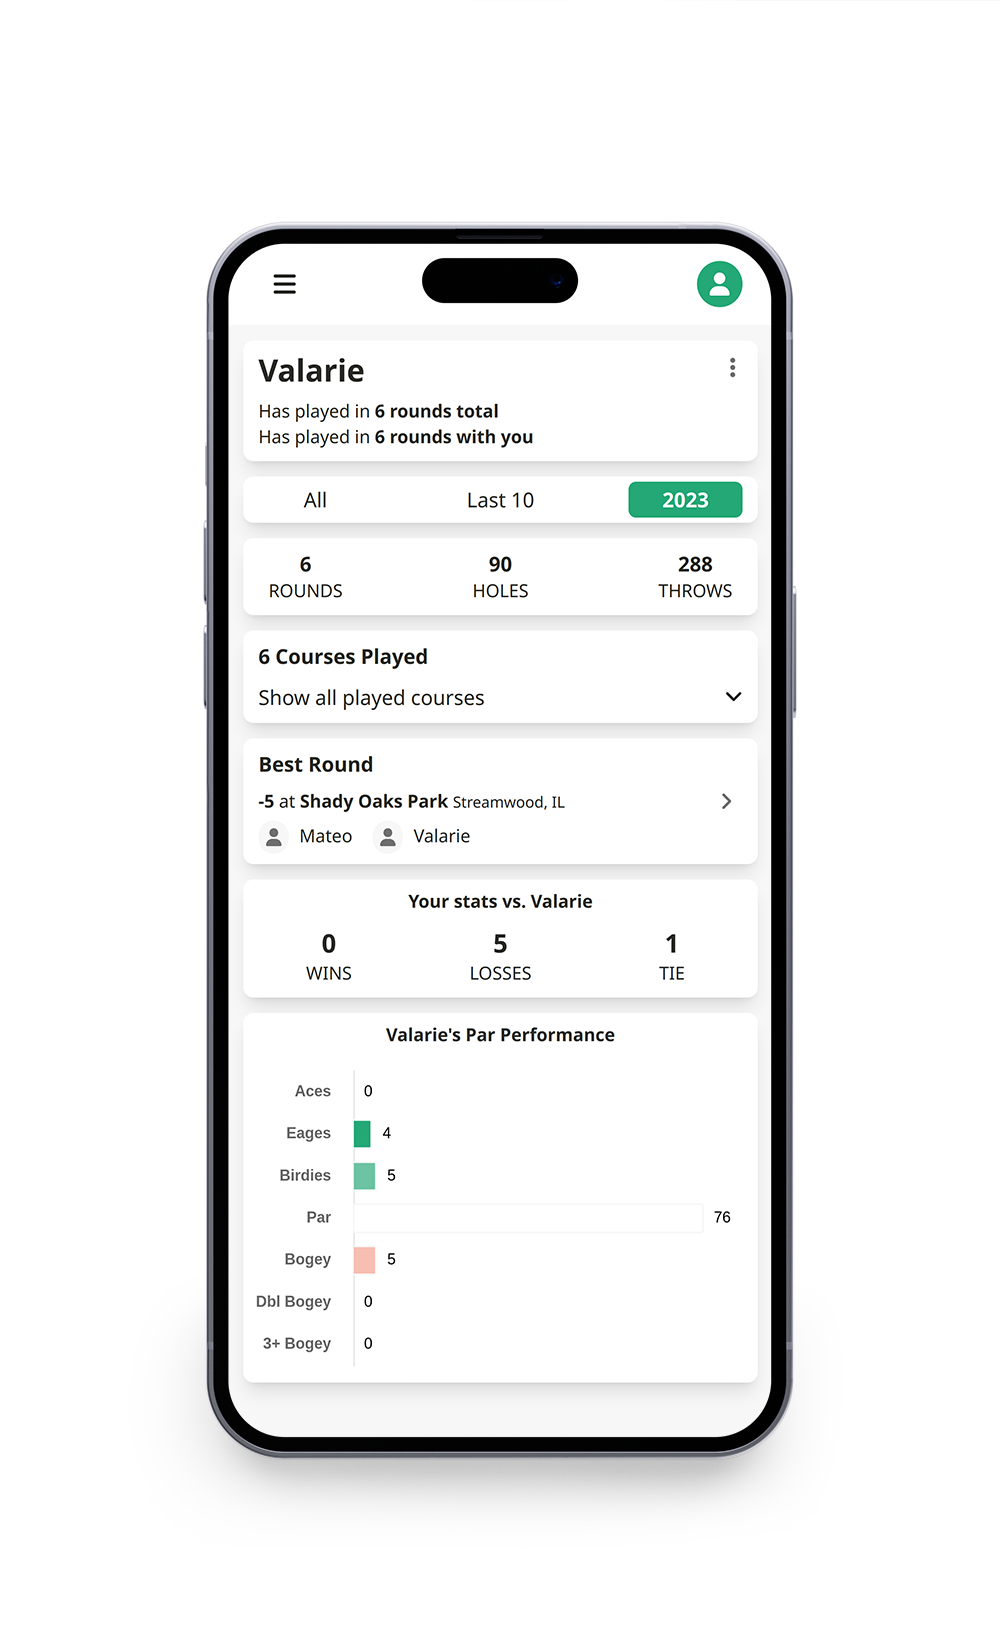
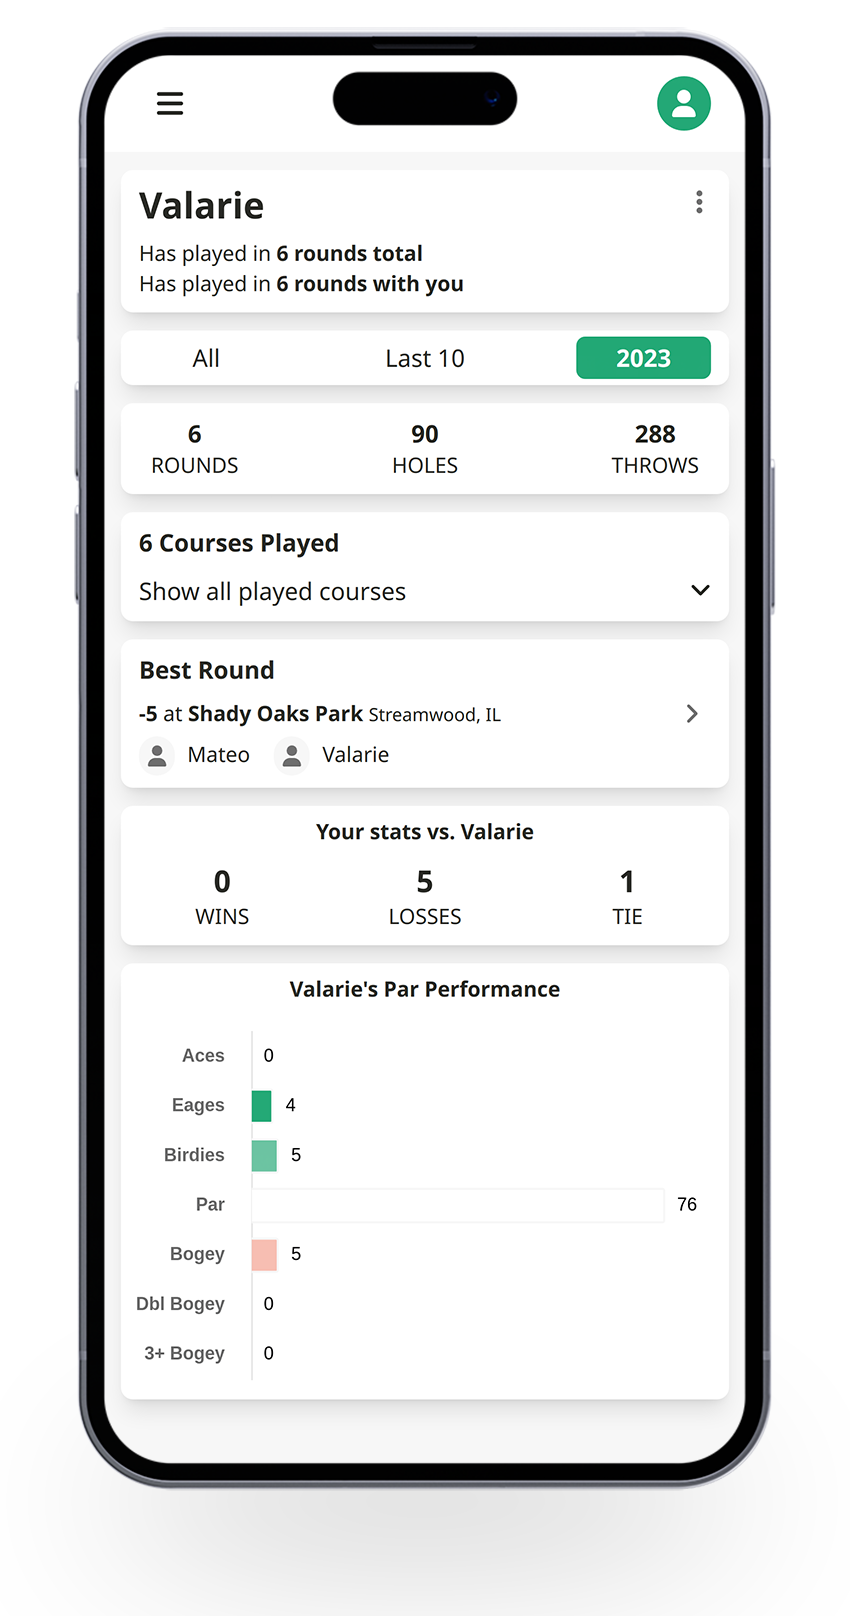
Add screenshot

Changed region(s): [[0.0612, 0.0, 0.9176, 0.9592]]

diff --git a/README.md b/README.md
@@ -40,7 +40,7 @@ If you'd like to explore the app, you can do so by visiting this link here.
 
 ### Homepage
 
-![Homepage](/client/src/assets/images/phone_newround.png)
+![Homepage](/client/src/assets/images/phone_courses.png)
 
 ### Dashboard
 
@@ -60,7 +60,7 @@ If you'd like to explore the app, you can do so by visiting this link here.
 
 ### Courses
 
-![Courses](/client/src/assets/images/phone_newround.png)
+![Courses](/client/src/assets/images/phone_courses.png)
 
 ### Responsive Design
 
